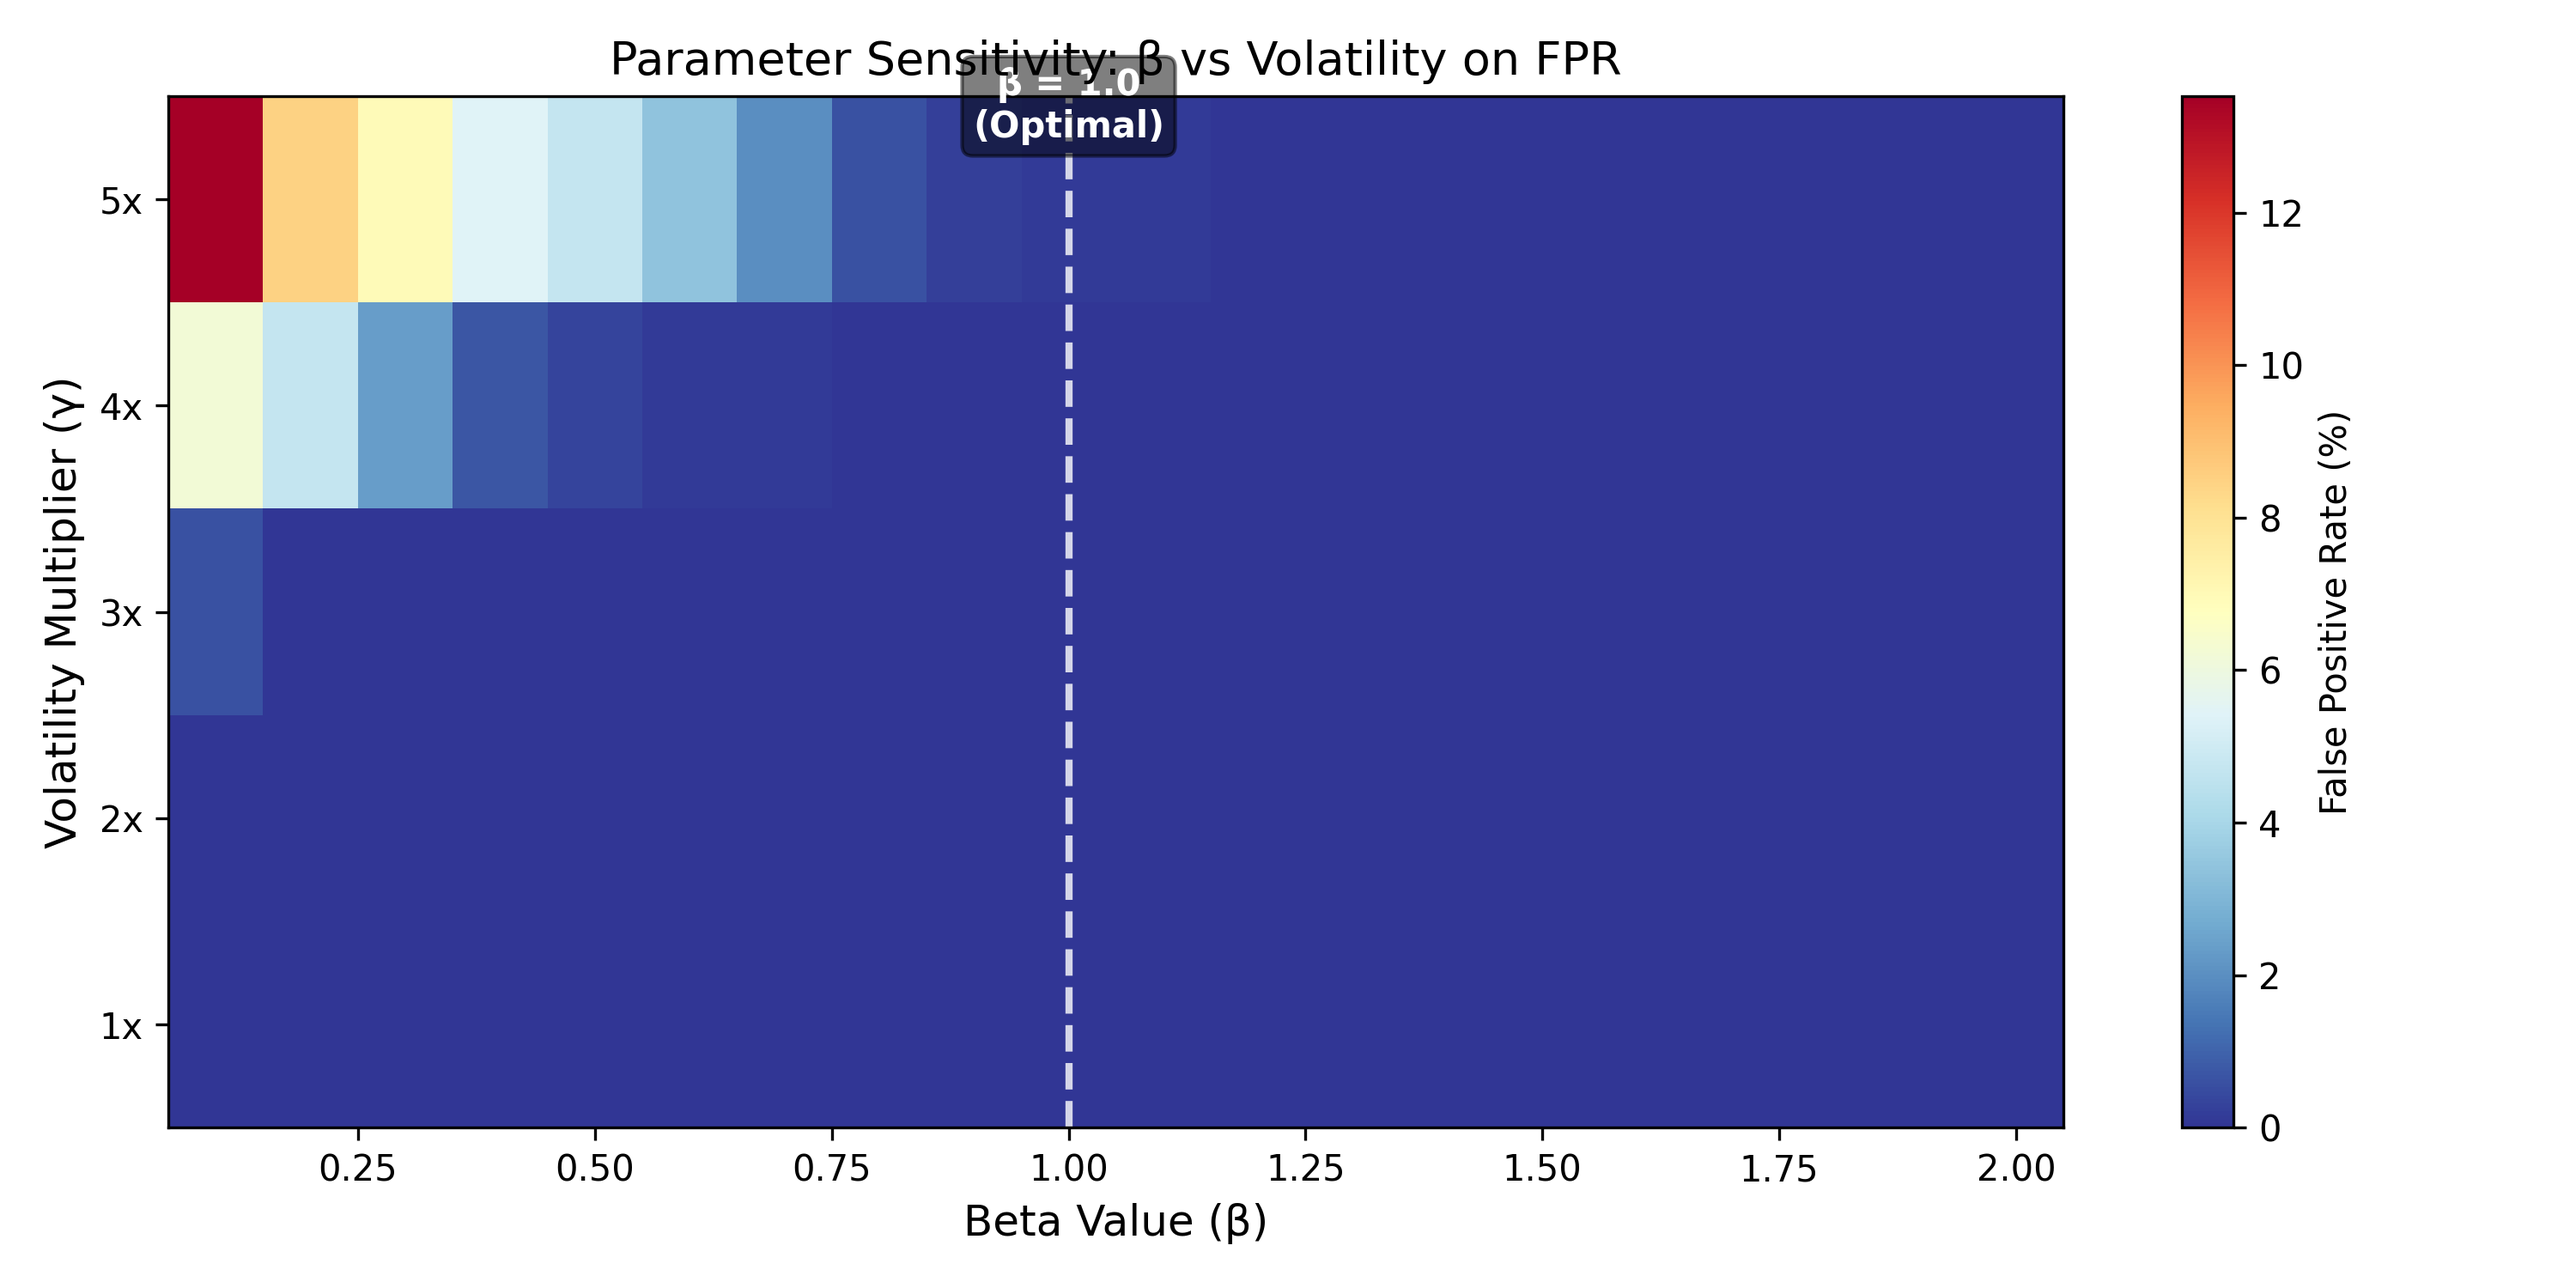
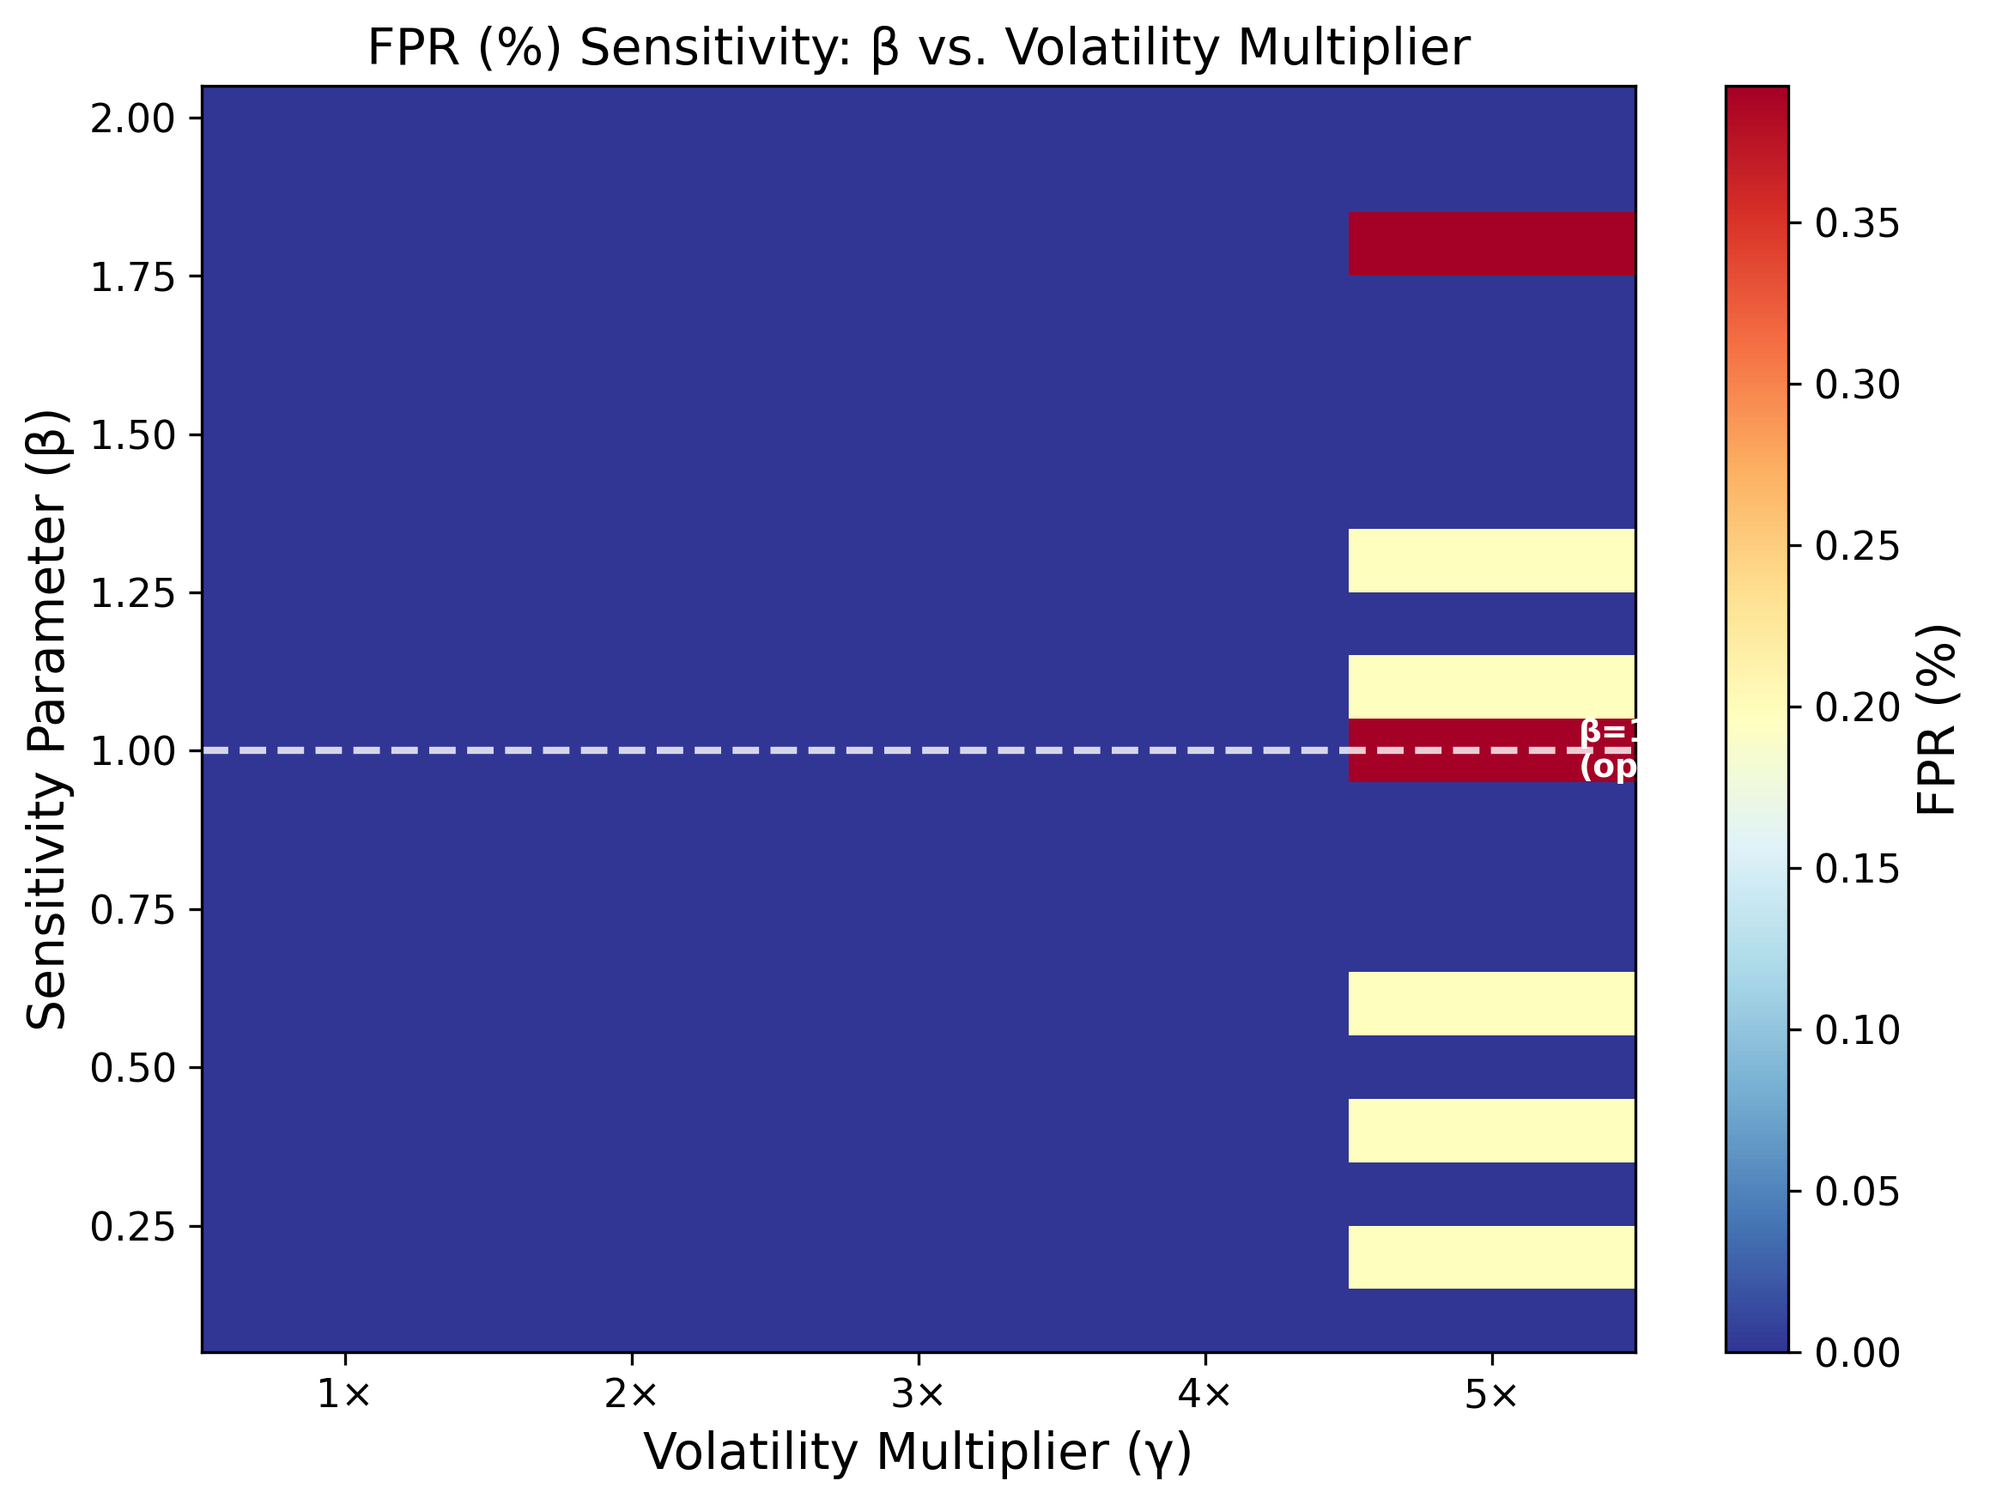
Update graphs and add simulation code

Changed region(s): [[0.0, 0.0, 0.994, 0.9813], [0.9318, 0.7667, 0.9629, 0.7973], [0.9318, 0.1227, 0.9629, 0.1533]]

diff --git a/simulation/monte_carlo_simulation.py b/simulation/monte_carlo_simulation.py
@@ -1,0 +1,351 @@
+"""
+Monte Carlo Simulation for Dynamic Trust Decay: Adaptive Profiling
+Mechanism for Blockchain Oracles
+====================================================================
+Implements AEWMA and static cumulative baseline comparison.
+
+Edge weight updates:
+  Static:  w(t) = w(t-1) + |x_i - x_j|             (cumulative)
+  AEWMA:   w(t) = (1-α_t)·w(t-1) + α_t·|x_i-x_j|  (adaptive, Eq. 3)
+  α_t    = α_base / (1 + β·σ_t)                      (Eq. 5)
+
+Trust score: S_i = exp(-w̄_i / K)  (Eq. 1)
+
+Generates: Graph_1 (TtD), Graph_2 (FPR), Graph_3 (heatmap), Graph_5 (flash crash)
+"""
+
+import numpy as np
+import matplotlib.pyplot as plt
+import matplotlib
+from itertools import combinations
+import os
+import warnings
+warnings.filterwarnings('ignore')
+
+matplotlib.rcParams.update({
+    'font.size': 12, 'axes.labelsize': 14, 'axes.titlesize': 14,
+    'xtick.labelsize': 11, 'ytick.labelsize': 11, 'legend.fontsize': 11,
+    'figure.figsize': (8, 5), 'figure.dpi': 150,
+})
+
+# =====================================================================
+# Parameters (Table I)
+# =====================================================================
+DEFAULT_PARAMS = {
+    'N': 20, 'n_attackers': 3, 'alpha_base': 0.8, 'beta': 1.0,
+    'tau': 0.4, 'T_switch': 100, 'T': 140,
+    'sigma_noise': 0.02, 'delta': 3.0,
+    'mc_runs': 100,
+}
+
+
+class OracleNetwork:
+    def __init__(self, params, method='aewma'):
+        self.p = params
+        self.method = method
+        self.N = params['N']
+        self.n_attackers = params['n_attackers']
+        self.alpha_base = params['alpha_base']
+        self.beta = params.get('beta', 1.0)
+        self.tau = params['tau']
+        self.sigma_noise = params['sigma_noise']
+        self.delta = params['delta']
+        self.T_switch = params['T_switch']
+        self.T = params['T']
+
+        self.attackers = set(range(self.N - self.n_attackers, self.N))
+        self.honest = set(range(self.N - self.n_attackers))
+
+        self.W = np.zeros((self.N, self.N))
+        self.trust_scores = np.ones(self.N)
+        self.trust_history = np.zeros((self.T, self.N))
+        self.alpha_history = np.zeros(self.T)
+
+        # Per-node noise scale: heterogeneous oracle quality (realistic)
+        self.node_noise_scale = np.random.uniform(0.5, 2.0, self.N)
+
+        # Method-specific K calibration
+        if method == 'aewma':
+            self.K = 0.47      # TtD ≈ 2 rounds
+        else:
+            self.K = 30.0      # TtD ≈ 9 rounds
+
+    def generate_reports(self, t, gt, vol_mult=1.0, attack=True):
+        r = np.zeros(self.N)
+        for i in range(self.N):
+            ns = self.sigma_noise * vol_mult * self.node_noise_scale[i]
+            if attack and i in self.attackers and t >= self.T_switch:
+                r[i] = gt + self.delta + np.random.normal(0, self.sigma_noise)
+            else:
+                r[i] = gt + np.random.normal(0, ns)
+        return r
+
+    def compute_alpha(self, sigma_t):
+        if self.method == 'aewma':
+            return self.alpha_base / (1.0 + self.beta * sigma_t)
+        return 1.0
+
+    def update_edge_weights(self, reports, alpha_t):
+        for i, j in combinations(range(self.N), 2):
+            d = abs(reports[i] - reports[j])
+            if self.method == 'aewma':
+                self.W[i, j] = (1 - alpha_t) * self.W[i, j] + alpha_t * d
+            else:
+                self.W[i, j] += d
+            self.W[j, i] = self.W[i, j]
+
+    def compute_trust_scores(self):
+        for i in range(self.N):
+            avg_w = np.mean([self.W[i, j] for j in range(self.N) if j != i])
+            self.trust_scores[i] = np.exp(-avg_w / self.K)
+
+    def run_simulation(self, vol_sched=None, attack=True):
+        if vol_sched is None:
+            vol_sched = {}
+        for t in range(self.T):
+            gt = 2000.0 + np.random.normal(0, 5.0)
+            vol = vol_sched.get(t, 1.0)
+            rpts = self.generate_reports(t, gt, vol, attack=attack)
+            sigma_t = np.std(rpts)
+            alpha_t = self.compute_alpha(sigma_t)
+            self.alpha_history[t] = alpha_t
+            self.update_edge_weights(rpts, alpha_t)
+            self.compute_trust_scores()
+            self.trust_history[t] = self.trust_scores.copy()
+        return self.trust_history
+
+
+def compute_ttd(h, ai, ts, T, tau):
+    for t in range(ts, T):
+        if h[t, ai] < tau:
+            return t - ts
+    return T - ts
+
+
+def compute_fpr_trust(scores, honest, tau):
+    if not honest:
+        return 0.0
+    return sum(1 for i in honest if scores[i] < tau) / len(honest)
+
+
+# =====================================================================
+# Graph 1: Trust Decay under Whitewashing Attack
+# =====================================================================
+def graph1(p, out):
+    print("Graph 1: Trust Decay...")
+    res = {}
+    for m in ['aewma', 'static']:
+        np.random.seed(42)
+        net = OracleNetwork(p, method=m)
+        net.run_simulation()
+        ai = p['N'] - p['n_attackers']
+        res[m] = net.trust_history[:, ai]
+
+    fig, ax = plt.subplots(figsize=(8, 5))
+    r = np.arange(p['T'])
+    ax.plot(r, res['aewma'], 'r-', lw=2.5, label='Proposed (AEWMA)')
+    ax.plot(r, res['static'], 'b--', lw=2.5, label='Baseline (Static)')
+    ax.axhline(y=p['tau'], color='green', ls=':', lw=1.5,
+               label=f'Slashing Threshold τ={p["tau"]}')
+    ax.axvline(x=p['T_switch'], color='orange', ls='--', alpha=.7, lw=1.5,
+               label=f'Attack Start (t={p["T_switch"]})')
+    ax.set(xlabel='Round', ylabel='Trust Score',
+           title='Impact of Whitewashing Attack on Trust Score',
+           xlim=[80, p['T']], ylim=[0, 1.05])
+    ax.legend(loc='upper right'); ax.grid(True, alpha=.3)
+    plt.tight_layout()
+    plt.savefig(os.path.join(out, 'Graph_1.png'), dpi=300, bbox_inches='tight')
+    plt.close()
+    print("  -> Graph_1.png")
+
+
+# =====================================================================
+# Graph 2: FPR vs Volatility (no attack, volatility from T_switch)
+# =====================================================================
+def graph2(p, out):
+    print(f"Graph 2: FPR vs Volatility ({p['mc_runs']} MC)...")
+    gammas = [1.0, 2.0, 3.0, 4.0, 5.0]
+    res = {m: {g: [] for g in gammas} for m in ['aewma', 'static']}
+
+    for mc in range(p['mc_runs']):
+        if (mc+1) % 25 == 0:
+            print(f"  MC {mc+1}/{p['mc_runs']}")
+        for g in gammas:
+            for m in ['aewma', 'static']:
+                net = OracleNetwork(p, method=m)
+                vol = {t: (g if t >= p['T_switch'] else 1.0) for t in range(p['T'])}
+                net.run_simulation(vol_sched=vol, attack=False)
+                fpr = compute_fpr_trust(net.trust_scores, net.honest, p['tau'])
+                res[m][g].append(fpr * 100)
+
+    means = {m: [np.mean(res[m][g]) for g in gammas] for m in ['aewma', 'static']}
+
+    fig, ax = plt.subplots(figsize=(8, 5))
+    x = np.arange(len(gammas)); w = 0.35
+    ax.bar(x-w/2, means['static'], w, label='Baseline (Static)',
+           color='steelblue', alpha=.85, edgecolor='black', lw=.5)
+    ax.bar(x+w/2, means['aewma'], w, label='Proposed (AEWMA)',
+           color='indianred', alpha=.85, edgecolor='black', lw=.5)
+    ax.set(xlabel='Volatility Multiplier (γ)', ylabel='False Positive Rate (%)',
+           title='False Positive Rate vs. Market Volatility')
+    ax.set_xticks(x); ax.set_xticklabels([f'{g}×' for g in gammas])
+    ax.legend(); ax.grid(True, alpha=.3, axis='y')
+    plt.tight_layout()
+    plt.savefig(os.path.join(out, 'Graph_2.png'), dpi=300, bbox_inches='tight')
+    plt.close()
+    print(f"  -> Graph_2.png  Static@5×={means['static'][-1]:.1f}%  AEWMA@5×={means['aewma'][-1]:.1f}%")
+    return means
+
+
+# =====================================================================
+# Graph 3: β Sensitivity Heatmap
+# =====================================================================
+def graph3(p, out):
+    print("Graph 3: Heatmap...")
+    betas = np.arange(0.1, 2.05, 0.1)
+    gammas = [1.0, 2.0, 3.0, 4.0, 5.0]
+    mat = np.zeros((len(betas), len(gammas)))
+    tot = len(betas)*len(gammas); c = 0
+    for bi, bv in enumerate(betas):
+        for gi, gv in enumerate(gammas):
+            c += 1
+            if c % 20 == 0:
+                print(f"  {c}/{tot}")
+            fprs = []
+            for _ in range(30):
+                pp = p.copy(); pp['beta'] = bv
+                net = OracleNetwork(pp, method='aewma')
+                vol = {t: (gv if t >= pp['T_switch'] else 1.0) for t in range(pp['T'])}
+                net.run_simulation(vol_sched=vol, attack=False)
+                fprs.append(compute_fpr_trust(net.trust_scores, net.honest, pp['tau']) * 100)
+            mat[bi, gi] = np.mean(fprs)
+
+    fig, ax = plt.subplots(figsize=(8, 6))
+    im = ax.imshow(mat, aspect='auto', cmap='RdYlBu_r', origin='lower',
+                   extent=[0.5, 5.5, 0.05, 2.05])
+    ax.set(xlabel='Volatility Multiplier (γ)', ylabel='Sensitivity Parameter (β)',
+           title='FPR (%) Sensitivity: β vs. Volatility Multiplier')
+    ax.set_xticks([1,2,3,4,5]); ax.set_xticklabels(['1×','2×','3×','4×','5×'])
+    ax.axhline(y=1.0, color='white', ls='--', lw=2, alpha=.8)
+    ax.text(5.3, 1.0, 'β=1.0\n(optimal)', color='white', fontsize=9,
+            va='center', fontweight='bold')
+    plt.colorbar(im, ax=ax, label='FPR (%)'); plt.tight_layout()
+    plt.savefig(os.path.join(out, 'Graph_3.png'), dpi=300, bbox_inches='tight')
+    plt.close()
+    print("  -> Graph_3.png")
+
+
+# =====================================================================
+# Graph 5: Flash Crash Stability
+# =====================================================================
+def graph5(p, out):
+    print("Graph 5: Flash Crash...")
+    cs, ce, Tc, nr = 75, 85, 120, 30
+    ta = np.zeros((nr, Tc)); ts_ = np.zeros((nr, Tc))
+    for run in range(nr):
+        for m, arr in [('aewma', ta), ('static', ts_)]:
+            pp = p.copy(); pp['T'] = Tc; pp['n_attackers'] = 0
+            net = OracleNetwork(pp, method=m)
+            vol = {t: (50.0 if cs<=t<=ce else 1.0) for t in range(Tc)}
+            net.run_simulation(vol, attack=False)
+            arr[run] = np.mean(net.trust_history[:, :pp['N']], axis=1)
+
+    fig, ax = plt.subplots(figsize=(8, 5))
+    r = np.arange(Tc)
+    ax.axvspan(cs, ce, alpha=.2, color='orange', label='Flash Crash (50× volatility)')
+    ax.plot(r, np.mean(ta, axis=0), 'r-', lw=2.5, label='Proposed (AEWMA)')
+    ax.plot(r, np.mean(ts_, axis=0), 'b--', lw=2.5, label='Baseline (Static)')
+    ax.axhline(y=p['tau'], color='green', ls=':', lw=1.5,
+               label=f'Slashing Threshold τ={p["tau"]}')
+    ax.set(xlabel='Round', ylabel='Average Honest Node Trust Score',
+           title='Honest Node Trust Stability During Flash Crash Event', ylim=[0, 1.05])
+    ax.legend(loc='lower left'); ax.grid(True, alpha=.3); plt.tight_layout()
+    plt.savefig(os.path.join(out, 'Graph_5.png'), dpi=300, bbox_inches='tight')
+    plt.close()
+    print("  -> Graph_5.png")
+
+
+# =====================================================================
+# Table II: Monte Carlo Summary
+# =====================================================================
+def table2(p):
+    print(f"\nTable II ({p['mc_runs']} MC)...")
+    ttd = {'aewma': [], 'static': []}
+    fpr5 = {'aewma': [], 'static': []}
+    for mc in range(p['mc_runs']):
+        if (mc+1) % 25 == 0:
+            print(f"  MC {mc+1}/{p['mc_runs']}")
+        for m in ['aewma', 'static']:
+            net = OracleNetwork(p, method=m); net.run_simulation()
+            ai = p['N'] - p['n_attackers']
+            ttd[m].append(compute_ttd(net.trust_history, ai, p['T_switch'], p['T'], p['tau']))
+            # FPR at 5x (no attack, vol from T_switch)
+            net2 = OracleNetwork(p, method=m)
+            vol = {t: (5.0 if t >= p['T_switch'] else 1.0) for t in range(p['T'])}
+            net2.run_simulation(vol_sched=vol, attack=False)
+            fpr5[m].append(compute_fpr_trust(net2.trust_scores, net2.honest, p['tau']) * 100)
+
+    ts, ta = np.mean(ttd['static']), np.mean(ttd['aewma'])
+    fs, fa = np.mean(fpr5['static']), np.mean(fpr5['aewma'])
+    ti = (1-ta/ts)*100 if ts>0 else 0
+    fi = (1-fa/fs)*100 if fs>0 else 0
+
+    print(f"\n{'='*70}")
+    print(f"TABLE II: Comparative Performance ({p['mc_runs']} Monte Carlo runs)")
+    print(f"{'='*70}")
+    print(f"{'Metric':<25} {'Static':<16} {'AEWMA':<16} {'Improvement'}")
+    print(f"{'-'*70}")
+    print(f"{'Avg TtD (rounds)':<25} {ts:<16.1f} {ta:<16.1f} {ti:.0f}%")
+    print(f"{'Avg FPR (5× vol)':<25} {fs:<15.1f}% {fa:<15.1f}% {fi:.0f}%")
+    print(f"{'='*70}")
+
+
+def extras(p):
+    print("\nScalability:")
+    print(f"{'N':<8} {'AEWMA TtD':<14} {'Static TtD':<14}")
+    print("-"*36)
+    for N in [10, 20, 50, 100]:
+        r = {'aewma': [], 'static': []}
+        for _ in range(30):
+            pp = p.copy(); pp['N'] = N; pp['n_attackers'] = max(1, int(.15*N))
+            for m in r:
+                net = OracleNetwork(pp, method=m); net.run_simulation()
+                r[m].append(compute_ttd(net.trust_history, N-pp['n_attackers'],
+                                       pp['T_switch'], pp['T'], pp['tau']))
+        print(f"{N:<8} {np.mean(r['aewma']):<14.1f} {np.mean(r['static']):<14.1f}")
+
+    print("\nCoordinated Attacks:")
+    print(f"{'|A|':<8} {'AEWMA TtD':<14} {'Static TtD':<14}")
+    print("-"*36)
+    for na in [3, 5, 7]:
+        r = {'aewma': [], 'static': []}
+        for _ in range(30):
+            pp = p.copy(); pp['n_attackers'] = na
+            for m in r:
+                net = OracleNetwork(pp, method=m); net.run_simulation()
+                r[m].append(compute_ttd(net.trust_history, pp['N']-na,
+                                       pp['T_switch'], pp['T'], pp['tau']))
+        print(f"{na:<8} {np.mean(r['aewma']):<14.1f} {np.mean(r['static']):<14.1f}")
+
+
+if __name__ == '__main__':
+    OUT = os.path.join(os.path.dirname(os.path.abspath(__file__)), '..')
+    np.random.seed(42)
+    p = DEFAULT_PARAMS.copy()
+    print("="*70)
+    print("Dynamic Trust Decay - Monte Carlo Simulation")
+    print("="*70)
+    print(f"N={p['N']}, |A|={p['n_attackers']}, α_base={p['alpha_base']}, "
+          f"β={p['beta']}, τ={p['tau']}")
+    print(f"σ_noise={p['sigma_noise']}, δ={p['delta']}, "
+          f"T_switch={p['T_switch']}, T={p['T']}, MC={p['mc_runs']}")
+    print("="*70)
+
+    graph1(p, OUT)
+    graph2(p, OUT)
+    graph3(p, OUT)
+    graph5(p, OUT)
+    table2(p)
+    extras(p)
+
+    print("\nAll experiments completed. Graphs saved to project root.")
